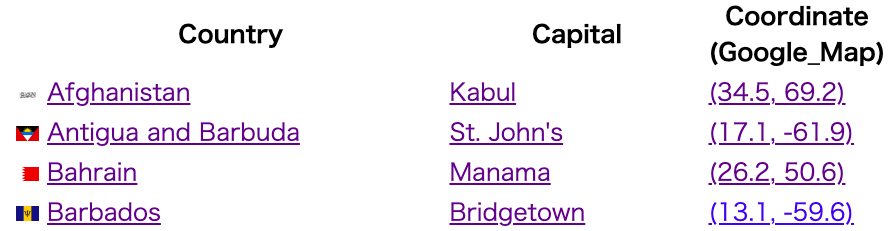
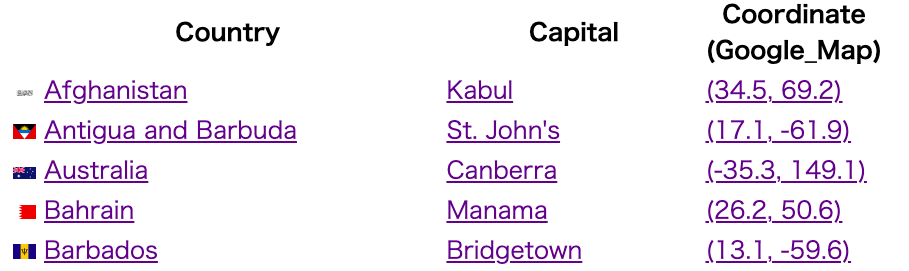
update

diff --git a/countries_independent_from_uk_capital/files/countries_from_uk_capital.html b/countries_independent_from_uk_capital/files/countries_from_uk_capital.html
@@ -3,7 +3,7 @@
 <head>
 <meta charset="UTF-8">
 <title>
-UN Countries
+Countries independent from UK
 </title>
 </head>
 <body>
@@ -28,6 +28,11 @@ UN Countries
 <td><img src="https://upload.wikimedia.org/wikipedia/commons/thumb/8/89/Flag_of_Antigua_and_Barbuda.svg/23px-Flag_of_Antigua_and_Barbuda.svg.png" decoding="async"  width="23" height="15" /> <a href="https://en.wikipedia.org/wiki/Antigua_and_Barbuda">Antigua and Barbuda</a></td>
 <td><a href="https://en.wikipedia.org/wiki/St._John%27s%2c_Antigua_and_Barbuda">St. John's</a></td>
 <td><a href="https://www.google.com/maps/@17.116667,-61.85,8z">(17.1, -61.9)</a></td>
+</tr>
+<tr>
+<td><img src="https://upload.wikimedia.org/wikipedia/commons/thumb/8/88/Flag_of_Australia_%28converted%29.svg/23px-Flag_of_Australia_%28converted%29.svg.png" decoding="async"  width="23" height="12" /> <a href="https://en.wikipedia.org/wiki/Australia">Australia</a></td>
+<td><a href="https://en.wikipedia.org/wiki/Canberra">Canberra</a></td>
+<td><a href="https://www.google.com/maps/@-35.293056,149.126944,8z">(-35.3, 149.1)</a></td>
 </tr>
 <tr>
 <td><img src="https://upload.wikimedia.org/wikipedia/commons/thumb/2/2c/Flag_of_Bahrain.svg/23px-Flag_of_Bahrain.svg.png" decoding="async"  width="23" height="14" /> <a href="https://en.wikipedia.org/wiki/Bahrain">Bahrain</a></td>
@@ -55,6 +60,11 @@ UN Countries
 <td><a href="https://www.google.com/maps/@4.890278,114.942222,8z">(4.9, 114.9)</a></td>
 </tr>
 <tr>
+<td><img src="https://upload.wikimedia.org/wikipedia/commons/thumb/d/d9/Flag_of_Canada_%28Pantone%29.svg/23px-Flag_of_Canada_%28Pantone%29.svg.png" decoding="async"  width="23" height="12" /> <a href="https://en.wikipedia.org/wiki/Canada">Canada</a></td>
+<td><a href="https://en.wikipedia.org/wiki/Ottawa">Ottawa</a></td>
+<td><a href="https://www.google.com/maps/@45.424722,-75.695,8z">(45.4, -75.7)</a></td>
+</tr>
+<tr>
 <td><img src="https://upload.wikimedia.org/wikipedia/commons/thumb/d/d4/Flag_of_Cyprus.svg/23px-Flag_of_Cyprus.svg.png" decoding="async"  width="23" height="15" /> <a href="https://en.wikipedia.org/wiki/Cyprus">Cyprus</a></td>
 <td><a href="https://en.wikipedia.org/wiki/Nicosia">Nicosia</a></td>
 <td><a href="https://www.google.com/maps/@35.1725,33.365,8z">(35.2, 33.4)</a></td>
@@ -63,6 +73,11 @@ UN Countries
 <td><img src="https://upload.wikimedia.org/wikipedia/commons/thumb/c/c4/Flag_of_Dominica.svg/23px-Flag_of_Dominica.svg.png" decoding="async"  width="23" height="12" /> <a href="https://en.wikipedia.org/wiki/Dominica">Dominica</a></td>
 <td><a href="https://en.wikipedia.org/wiki/Roseau">Roseau</a></td>
 <td><a href="https://www.google.com/maps/@15.301389,-61.388333,8z">(15.3, -61.4)</a></td>
+</tr>
+<tr>
+<td><img src="https://upload.wikimedia.org/wikipedia/commons/thumb/d/d2/Dominion_of_Newfoundland_Red_Ensign.svg/23px-Dominion_of_Newfoundland_Red_Ensign.svg.png" decoding="async"  width="23" height="12" /> <a href="https://en.wikipedia.org/wiki/Dominion_of_Newfoundland">Dominion of Newfoundland</a></td>
+<td><a href="https://en.wikipedia.org/wiki/St._John%27s%2c_Newfoundland_and_Labrador">John's</a></td>
+<td><a href="https://www.google.com/maps/@47.482222,-52.796944,8z">(47.5, -52.8)</a></td>
 </tr>
 <tr>
 <td><img src="https://upload.wikimedia.org/wikipedia/commons/thumb/f/fe/Flag_of_Egypt.svg/23px-Flag_of_Egypt.svg.png" decoding="async"  width="23" height="15" /> <a href="https://en.wikipedia.org/wiki/Egypt">Egypt</a></td>
@@ -103,6 +118,11 @@ UN Countries
 <td><img src="https://upload.wikimedia.org/wikipedia/commons/thumb/f/f6/Flag_of_Iraq.svg/23px-Flag_of_Iraq.svg.png" decoding="async"  width="23" height="15" /> <a href="https://en.wikipedia.org/wiki/Iraq">Iraq</a></td>
 <td><a href="https://en.wikipedia.org/wiki/Baghdad">Baghdad</a></td>
 <td><a href="https://www.google.com/maps/@33.315278,44.366111,8z">(33.3, 44.4)</a></td>
+</tr>
+<tr>
+<td><img src="https://upload.wikimedia.org/wikipedia/commons/thumb/4/45/Flag_of_Ireland.svg/23px-Flag_of_Ireland.svg.png" decoding="async"  width="23" height="12" /> <a href="https://en.wikipedia.org/wiki/Republic_of_Ireland">Ireland</a></td>
+<td><a href="https://en.wikipedia.org/wiki/Dublin">Dublin</a></td>
+<td><a href="https://www.google.com/maps/@53.35,-6.260278,8z">(53.4, -6.3)</a></td>
 </tr>
 <tr>
 <td><img src="https://upload.wikimedia.org/wikipedia/commons/thumb/d/d4/Flag_of_Israel.svg/21px-Flag_of_Israel.svg.png" decoding="async"  width="21" height="15" /> <a href="https://en.wikipedia.org/wiki/Israel">Israel</a></td>
@@ -150,7 +170,7 @@ UN Countries
 <td><a href="https://www.google.com/maps/@-13.983333,33.783333,8z">(-14.0, 33.8)</a></td>
 </tr>
 <tr>
-<td><img src="https://upload.wikimedia.org/wikipedia/commons/thumb/4/4c/Flag_of_Malaya.svg/23px-Flag_of_Malaya.svg.png" decoding="async"  width="23" height="13" /> <a href="https://en.wikipedia.org/wiki/Federation_of_Malaya">Malaya</a></td>
+<td><img src="https://upload.wikimedia.org/wikipedia/commons/thumb/4/4c/Flag_of_Malaya.svg/23px-Flag_of_Malaya.svg.png" decoding="async"  width="23" height="12" /> <a href="https://en.wikipedia.org/wiki/Federation_of_Malaya">Malaya</a></td>
 <td><a href="https://en.wikipedia.org/wiki/Kuala_Lumpur">Kuala Lumpur</a></td>
 <td><a href="https://www.google.com/maps/@3.147778,101.695278,8z">(3.1, 101.7)</a></td>
 </tr>
@@ -180,6 +200,11 @@ UN Countries
 <td><a href="https://www.google.com/maps/@-0.5477,166.920867,8z">(-0.5, 166.9)</a></td>
 </tr>
 <tr>
+<td><img src="https://upload.wikimedia.org/wikipedia/commons/thumb/3/3e/Flag_of_New_Zealand.svg/23px-Flag_of_New_Zealand.svg.png" decoding="async"  width="23" height="12" /> <a href="https://en.wikipedia.org/wiki/New_Zealand">New Zealand</a></td>
+<td><a href="https://en.wikipedia.org/wiki/Wellington">Wellington</a></td>
+<td><a href="https://www.google.com/maps/@-41.288889,174.777222,8z">(-41.3, 174.8)</a></td>
+</tr>
+<tr>
 <td><img src="https://upload.wikimedia.org/wikipedia/commons/thumb/7/79/Flag_of_Nigeria.svg/23px-Flag_of_Nigeria.svg.png" decoding="async"  width="23" height="12" /> <a href="https://en.wikipedia.org/wiki/Nigeria">Nigeria</a></td>
 <td><a href="https://en.wikipedia.org/wiki/Abuja">Abuja</a></td>
 <td><a href="https://www.google.com/maps/@9.066667,7.483333,8z">(9.1, 7.5)</a></td>
@@ -200,14 +225,14 @@ UN Countries
 <td><a href="https://www.google.com/maps/@25.286667,51.533333,8z">(25.3, 51.5)</a></td>
 </tr>
 <tr>
-<td><img src="https://upload.wikimedia.org/wikipedia/commons/thumb/9/9f/Flag_of_Saint_Lucia.svg/23px-Flag_of_Saint_Lucia.svg.png" decoding="async"  width="23" height="12" /> <a href="https://en.wikipedia.org/wiki/Saint_Lucia">Saint Lucia</a></td>
-<td><a href="https://en.wikipedia.org/wiki/Castries">Castries</a></td>
-<td><a href="https://www.google.com/maps/@14.016667,-60.983333,8z">(14.0, -61.0)</a></td>
-</tr>
-<tr>
 <td><img src="https://upload.wikimedia.org/wikipedia/commons/thumb/f/fe/Flag_of_Saint_Kitts_and_Nevis.svg/23px-Flag_of_Saint_Kitts_and_Nevis.svg.png" decoding="async"  width="23" height="15" /> <a href="https://en.wikipedia.org/wiki/Saint_Kitts_and_Nevis">Saint Kitts and Nevis</a></td>
 <td><a href="https://en.wikipedia.org/wiki/Basseterre">Basseterre</a></td>
 <td><a href="https://www.google.com/maps/@17.3,-62.733333,8z">(17.3, -62.7)</a></td>
+</tr>
+<tr>
+<td><img src="https://upload.wikimedia.org/wikipedia/commons/thumb/9/9f/Flag_of_Saint_Lucia.svg/23px-Flag_of_Saint_Lucia.svg.png" decoding="async"  width="23" height="12" /> <a href="https://en.wikipedia.org/wiki/Saint_Lucia">Saint Lucia</a></td>
+<td><a href="https://en.wikipedia.org/wiki/Castries">Castries</a></td>
+<td><a href="https://www.google.com/maps/@14.016667,-60.983333,8z">(14.0, -61.0)</a></td>
 </tr>
 <tr>
 <td><img src="https://upload.wikimedia.org/wikipedia/commons/thumb/6/6d/Flag_of_Saint_Vincent_and_the_Grenadines.svg/23px-Flag_of_Saint_Vincent_and_the_Grenadines.svg.png" decoding="async"  width="23" height="15" /> <a href="https://en.wikipedia.org/wiki/Saint_Vincent_and_the_Grenadines">Saint Vincent and the Grenadines</a></td>
@@ -233,6 +258,11 @@ UN Countries
 <td><img src="https://upload.wikimedia.org/wikipedia/commons/thumb/4/4d/Flag_of_Somaliland.svg/23px-Flag_of_Somaliland.svg.png" decoding="async"  width="23" height="12" /> <a href="https://en.wikipedia.org/wiki/Somaliland">Somaliland</a></td>
 <td><a href="https://en.wikipedia.org/wiki/Hargeisa">Hargeisa</a></td>
 <td><a href="https://www.google.com/maps/@9.563056,44.0675,8z">(9.6, 44.1)</a></td>
+</tr>
+<tr>
+<td><img src="https://upload.wikimedia.org/wikipedia/commons/thumb/a/af/Flag_of_South_Africa.svg/23px-Flag_of_South_Africa.svg.png" decoding="async"  width="23" height="15" /> <a href="https://en.wikipedia.org/wiki/South_Africa">South Africa</a></td>
+<td><a href="https://en.wikipedia.org/wiki/Cape Town">Bloemfontein</a></td>
+<td><a href="https://www.google.com/maps/@-33.925278,18.423889,8z">(-33.9, 18.4)</a></td>
 </tr>
 <tr>
 <td><img src="https://upload.wikimedia.org/wikipedia/commons/thumb/d/db/Flag_of_South_Yemen.svg/23px-Flag_of_South_Yemen.svg.png" decoding="async"  width="23" height="15" /> <a href="https://en.wikipedia.org/wiki/South_Yemen">South Yemen</a></td>
@@ -291,7 +321,7 @@ UN Countries
 </tr>
 <tr>
 <td><img src="https://upload.wikimedia.org/wikipedia/en/thumb/a/a4/Flag_of_the_United_States.svg/23px-Flag_of_the_United_States.svg.png" decoding="async"  width="23" height="12" /> <a href="https://en.wikipedia.org/wiki/United_States">United States</a></td>
-<td><a href="https://en.wikipedia.org/wiki/Washington%2c_D.C.">Washington,D.C.</a></td>
+<td><a href="https://en.wikipedia.org/wiki/Washington%2c_D.C.">Washington, D.C.</a></td>
 <td><a href="https://www.google.com/maps/@38.904722,-77.016389,8z">(38.9, -77.0)</a></td>
 </tr>
 <tr>

diff --git a/countries_independent_from_uk_capital/python/merge_json.py b/countries_independent_from_uk_capital/python/merge_json.py
@@ -40,32 +40,60 @@ wdata = ""
 
 with open('countries_from_uk.json') as f1:
     dic1 = json.load(f1)
-    list_uk_colonies = dic1['countries']
+    list_countries = dic1['countries']
 
 with open('un_members_capital.json') as f2:
     dic2 = json.load(f2)
     list_un_members = dic2['countries']
 
-for item in  list_uk_colonies:
+with open('countries_from_uk_dominion.json') as f3:
+    dic3 = json.load(f3)
+    list_dominion = dic3['countries']
+
+for item in  list_countries:
     country = item['country']
     print(country)
     url_country = item['url_country']
+    url_flag_icon = item['url_flag_icon']
+    icon_width = item['icon_width']
+    icon_height = item['icon_height']
 
     is_match, matched = find_country(list_un_members, country, url_country)
  
     capital = '-'
     url_capital = '-'
-    url_flag_icon = '-'
-    icon_width = 0
-    icon_height = 0
     lat = 0
     lon = 0
     if is_match:
         capital = replace_comma_html( matched['capital'] )
         url_capital =  matched['url_capital']
-        url_flag_icon = matched['url_flag_icon']
-        icon_width = matched['icon_width']
-        icon_height = matched['icon_height']
+        lat = matched['lat']
+        lon = matched['lon']
+
+    line = FORMAT_LINE.format(country=country, url_country=url_country, capital=capital, url_capital=url_capital, url_flag_icon= url_flag_icon,   icon_width=  icon_width, icon_height=icon_height, lat=lat, lon=lon)
+    print(line)
+    wdata += line;
+#
+
+
+
+for item in  list_dominion:
+    country = item['country']
+    print(country)
+    url_country = item['url_country']
+    url_flag_icon = item['url_flag_icon']
+    icon_width = item['icon_width']
+    icon_height = item['icon_height']
+
+    is_match, matched = find_country(list_un_members, country, url_country)
+ 
+    capital = '-'
+    url_capital = '-'
+    lat = 0
+    lon = 0
+    if is_match:
+        capital = replace_comma_html( matched['capital'] )
+        url_capital =  matched['url_capital']
         lat = matched['lat']
         lon = matched['lon']
 

diff --git a/countries_independent_from_uk_capital/README.md b/countries_independent_from_uk_capital/README.md
@@ -1,19 +1,20 @@
-Countries ndependent from the UK Capital
+UK Colonies
 ===============
 
-List of countries that have gained independence from the United Kingdom with Capital
+List of countries that have gained independence from the United Kingdom
 
 Below are lists of the countries and territories formerly ruled or administered by the United Kingdom or part of the British Empire (including military occupations that did not retain the pre-war central government), with their independence days. 
 A total of 65 countries have claimed their independence from the British Empire or the United Kingdom.
 
-![countries ndependent from the uk capital](https://github.com/ohwada/World_Countries/blob/main/countries_independent_from_uk_capital/screenshots/countries_from_uk_capital.png)
+![uk_colonies](https://github.com/ohwada/World_Countries/blob/main/uk_colonies/screenshots/uk_colonies.png)
 
 - List of Member states in JSON file
 - Python program which create List in HTML form
 
 The following Web page has List of Member states in HTML tabular form.
 
-[wikipedia: List of countries that have gained independence from the United Kingdom](https://en.wikipedia.org/wiki/List_of_countries_that_have_gained_independence_from_the_United_Kingdom)
+wikipedia: List of countries that have gained independence from the United Kingdom
+https://en.wikipedia.org/wiki/List_of_countries_that_have_gained_independence_from_the_United_Kingdom
 
 Extract the information from Web page
 and make it into a JSON format file.
@@ -24,5 +25,6 @@ Create List in HTML form from JSON file
 - sv2json.py
 - json2html.py
 
-## Refernce
+### Reference
 https://ken-ohwada.hatenadiary.org/entry/2023/07/02/194219
+
